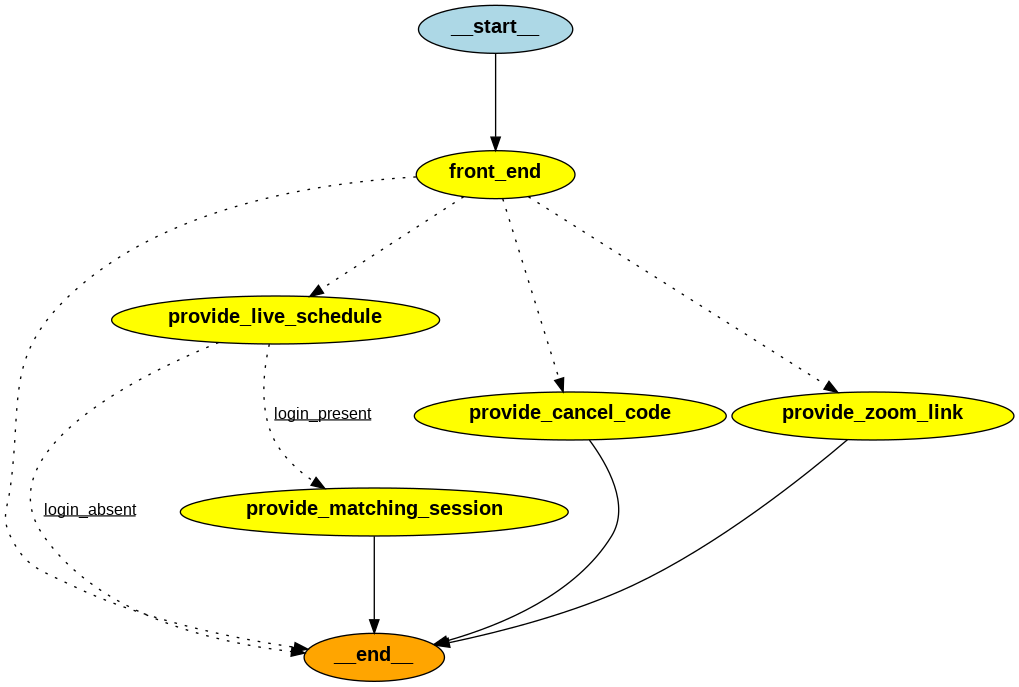
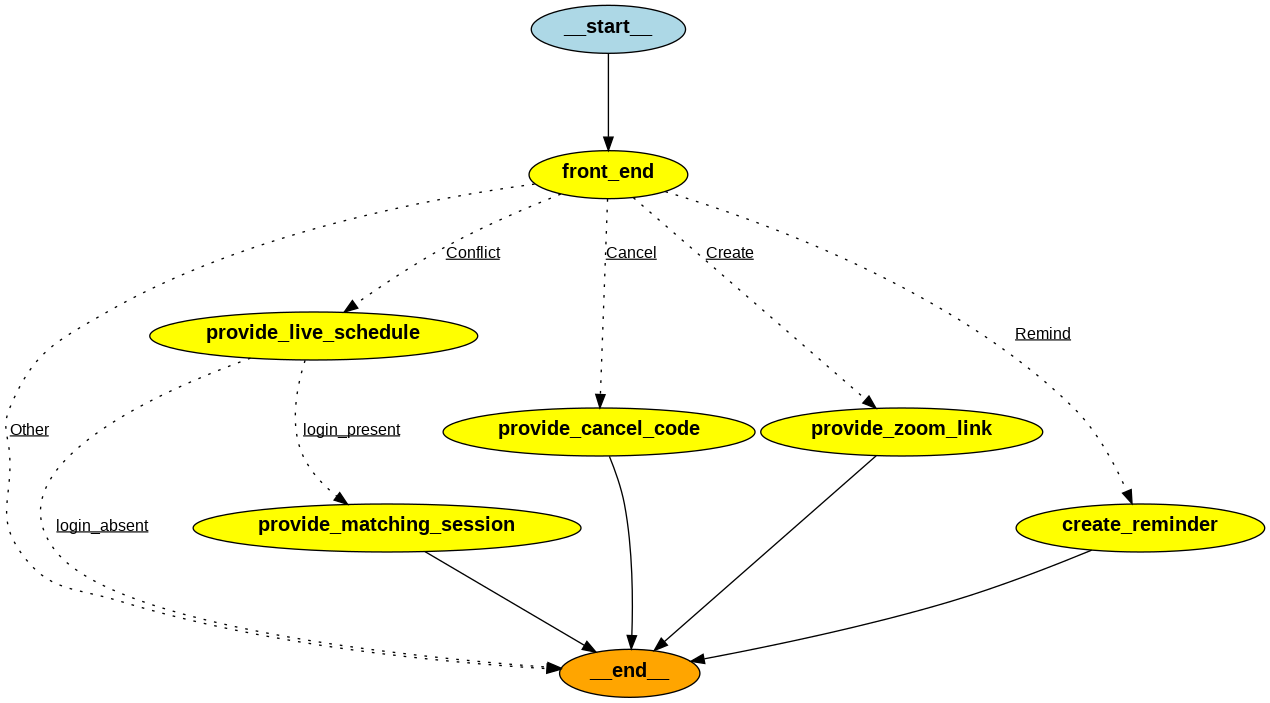
Added email reminder creation.

diff --git a/graph.py b/graph.py
@@ -11,6 +11,7 @@ from langchain_core.pydantic_v1 import BaseModel
 import sqlite3
 
 from zoom_api import *
+from student_db import *
 
 import os
 
@@ -40,10 +41,18 @@ class ZoomSession(BaseModel):
 class CancelCode(BaseModel):
     code: int
 
-
 class TitleURL(BaseModel):
     title: str
     url: str
+
+
+class Email(BaseModel):
+    to: str
+    subject: str
+    student: str
+    body: str
+
+
 #
 # Only used for streaming. We dont need this.
 #
@@ -71,13 +80,15 @@ class zoomHandler():
         builder.add_node('provide_matching_session',self.provideMatchingSession)
         builder.add_node('provide_cancel_code',self.provideCancelCode)
         builder.add_node('provide_zoom_link',self.provideZoomLink)
+        builder.add_node('create_reminder',self.createReminder)
 
         builder.set_entry_point('front_end')
         builder.add_conditional_edges('front_end',self.main_router,
-                                      {END:END, 
-                                       "provide_live_schedule":"provide_live_schedule", 
-                                       "provide_cancel_code":"provide_cancel_code", 
-                                       "provide_zoom_link":"provide_zoom_link"})
+                                      {"Other":END, 
+                                       "Conflict":"provide_live_schedule", 
+                                       "Cancel":"provide_cancel_code", 
+                                       "Create":"provide_zoom_link",
+                                       "Remind":"create_reminder",})
         #builder.add_edge('provide_live_schedule',END)
         builder.add_conditional_edges('provide_live_schedule',self.second_router,
                                         {END:END, 
@@ -86,6 +97,7 @@ class zoomHandler():
         builder.add_edge('provide_matching_session',END)
         builder.add_edge('provide_cancel_code',END)
         builder.add_edge('provide_zoom_link',END)
+        builder.add_edge('create_reminder',END)
         memory = SqliteSaver(conn=sqlite3.connect(":memory:", check_same_thread=False))
         self.graph = builder.compile(
             checkpointer=memory,
@@ -98,6 +110,7 @@ class zoomHandler():
         print(f"START: frontEnd")
         my_prompt=f"""
                 Please classify the user's request.
+                If a student hasnt joined the session, category is 'Remind'
                 If the user is unable to join a Zoom session due to a conflict, category is 'Conflict'
                 If the user wants you to cancel an existing Zoom session, category is 'Cancel'
                 If the user expresses inability to stop a Zoom session, category is 'Cancel'
@@ -119,14 +132,16 @@ class zoomHandler():
     def main_router(self, state: AgentState):
         print(f"\n\nSTART: mainRouter with msg {state['initialMsg']} and category {state['category']}")
         if state['category'] == 'Conflict':
-            return "provide_live_schedule"
+            return "Conflict"
         elif state['category'] == 'Cancel':
-            return "provide_cancel_code"
+            return "Cancel"
         elif state['category'] == 'Create':
-            return "provide_zoom_link"
+            return "Create"
+        elif state['category'] == 'Remind':
+            return "Remind"
         elif state['category'] == 'Other':
             print(f"Content not relevant to Zoom. Ignoring. {state['initialMsg']}")
-            return END
+            return 'Other'
         else:
             print(f"Unknown category {state['category']}")
             return END
@@ -185,18 +200,18 @@ class zoomHandler():
         login=state['login']
         currentSchedule=state['currentSchedule']
         print(f"Login: {login}")
-        my_second_prompt=f"""
+        my_prompt=f"""
             Please try to match the login {login} to one of the running sessions.
             {currentSchedule}
             Respond with the Title and URL of the best matching session(s).
         """
-        llm_second_response=self.model.with_structured_output(TitleURL).invoke([
-            SystemMessage(content=my_second_prompt),
+        llm_response=self.model.with_structured_output(TitleURL).invoke([
+            SystemMessage(content=my_prompt),
             HumanMessage(content=state['initialMsg']),
         ])
         # print(f"\n\n\nLLM 2nd Response: {llm_second_response}\n\n\n")
-        if title := llm_second_response.title:
-            responseToUser= f"{currentSchedule}.\n\nI believe your conflict is with {title}\n\nPlease join this session using {llm_second_response.url}."
+        if title := llm_response.title:
+            responseToUser= f"{currentSchedule}.\n\nI believe your conflict is with {title}\n\nPlease join this session using {llm_response.url}."
         else:
             responseToUser= f"{currentSchedule}.\n\nI believe your issue is with Account {login}\n\nCan you please check through the current sessions to figure out the conflict."
         return {
@@ -247,6 +262,44 @@ class zoomHandler():
         return {
 
             'lnode':'provide_zoom_link',
+            'responseToUser':responseToUser
+        }
+    
+
+    def createReminder(self, state: AgentState):
+        print(f"START: createReminder")
+        currentStudentList= get_current_student_list()
+        my_prompt=f"""
+                Please check if the user's request matches exactly one of the students in this list.
+                {currentStudentList}
+                If so, respond with the Email template including "To","Subject", and "Body" 
+                along with the student name for email to send to the student to remind them to join the session.
+                Else return 'No Match' for all fields, and we will ask user for more information.
+
+                The email should be polite and three-paragraph long. 
+                1. It should tell the user that the instructor is waiting.
+                2. It should provide the Zoom link for the student to join.
+                3. It should thank the student for their attention.
+
+                Please sign-off the email as 'AIClub Coordinators' with email 'coordinator@aiclub.world'.
+                Separate the sign-off from the body with a line of dashes.
+                """
+        llm_response=self.model.with_structured_output(Email).invoke([
+            SystemMessage(content=my_prompt),
+            HumanMessage(content=state['initialMsg']),
+        ])
+        responseToUser= f"""
+        Sorry. I have not built this functionality yet. Here is the email to send for {llm_response.student}, and who to send it to:\n
+        \n
+        To: {llm_response.to}\n
+        Subject: {llm_response.subject}\n
+        Body: {llm_response.body}\n
+        """
+        
+        #print(f"END: provideZoomLink")
+        return {
+
+            'lnode':'Reminder',
             'responseToUser':responseToUser
         }
 

diff --git a/student_db.py b/student_db.py
@@ -1,0 +1,10 @@
+
+def get_current_student_list():
+    student_db = [{"studentId": "aaaa","name":"Alice Alpha","emails":"alice@gprof.com","meetingName":"1:1 Alice"},
+          {"studentId": "bbbb","name":"Bob Beta","emails":"bob@gprof.com","meetingName":"1:1 Alice"},
+          {"studentId": "cccc","name":"Charlie Christ","emails":"charlie@gprof.com","meetingName":"1:1 Charlie "},
+        ]
+    full_response="Here is the student list:\n\n"
+    for s in student_db:
+        full_response += f"Name: {s['name']}, Meeting: {s['meetingName']}, Emails: {s['emails']}\n"
+    return full_response
